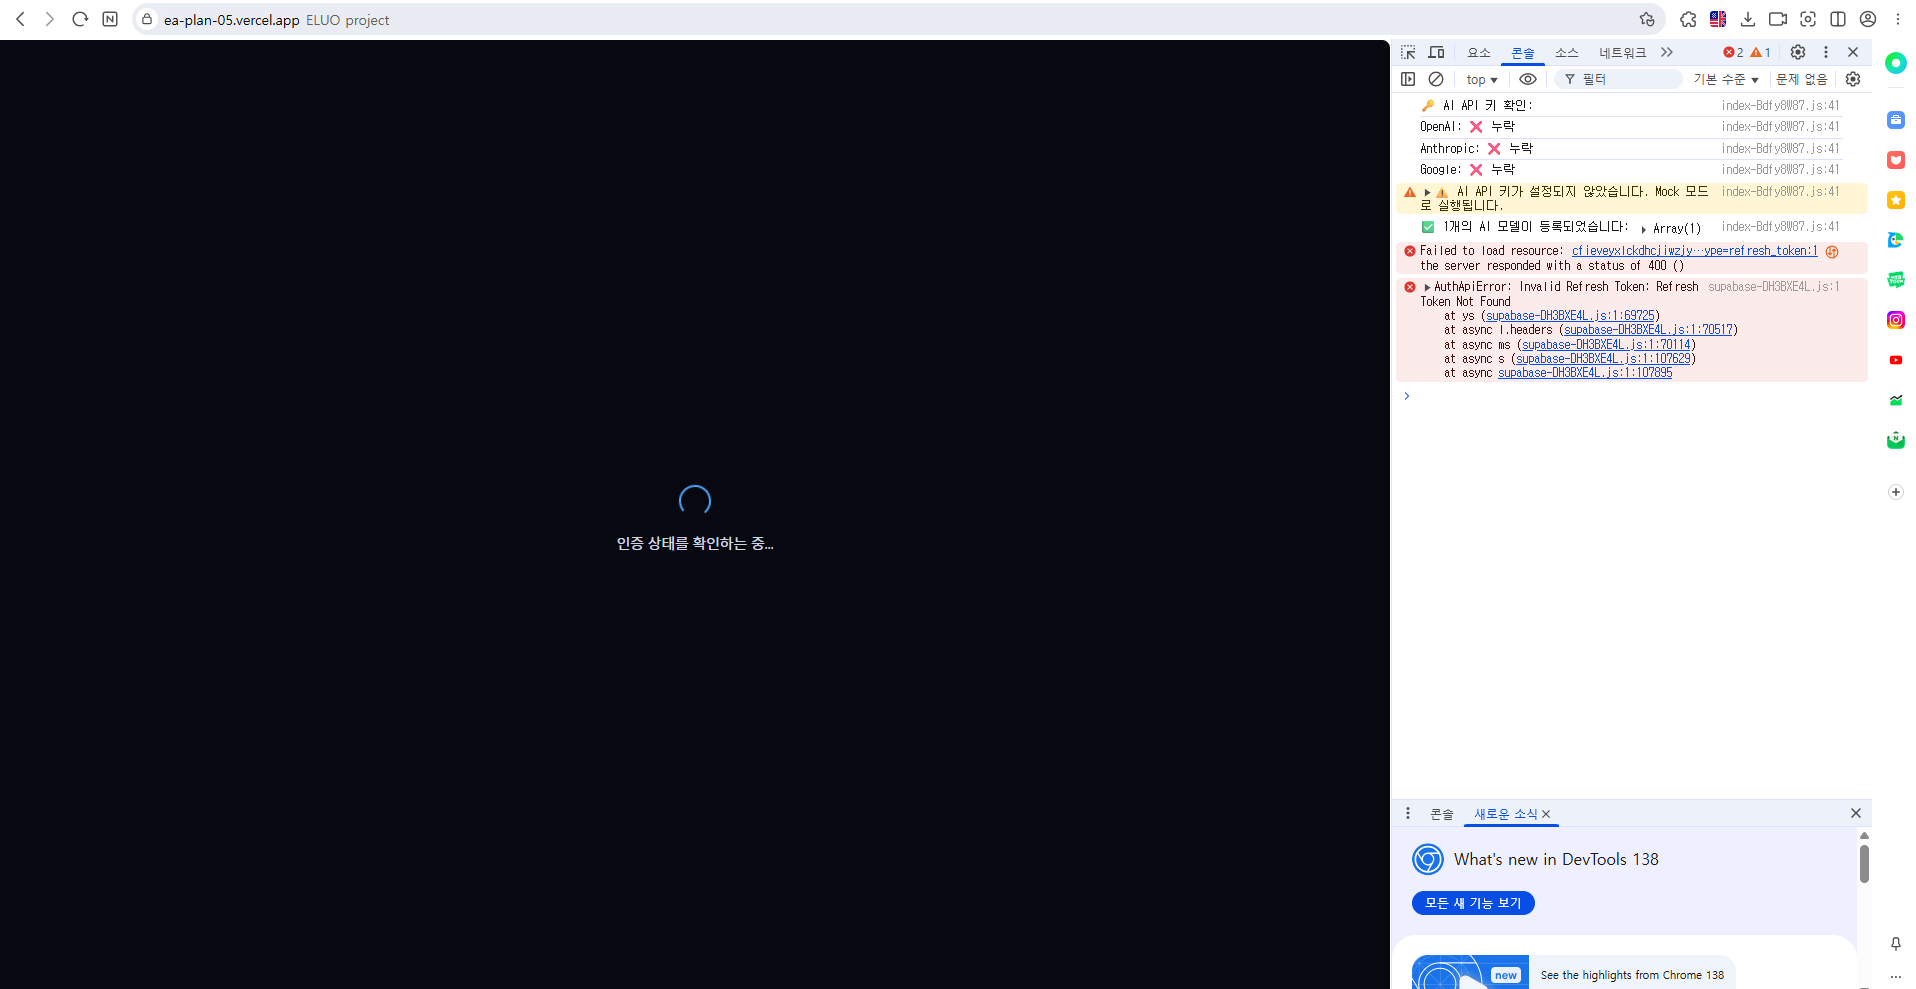
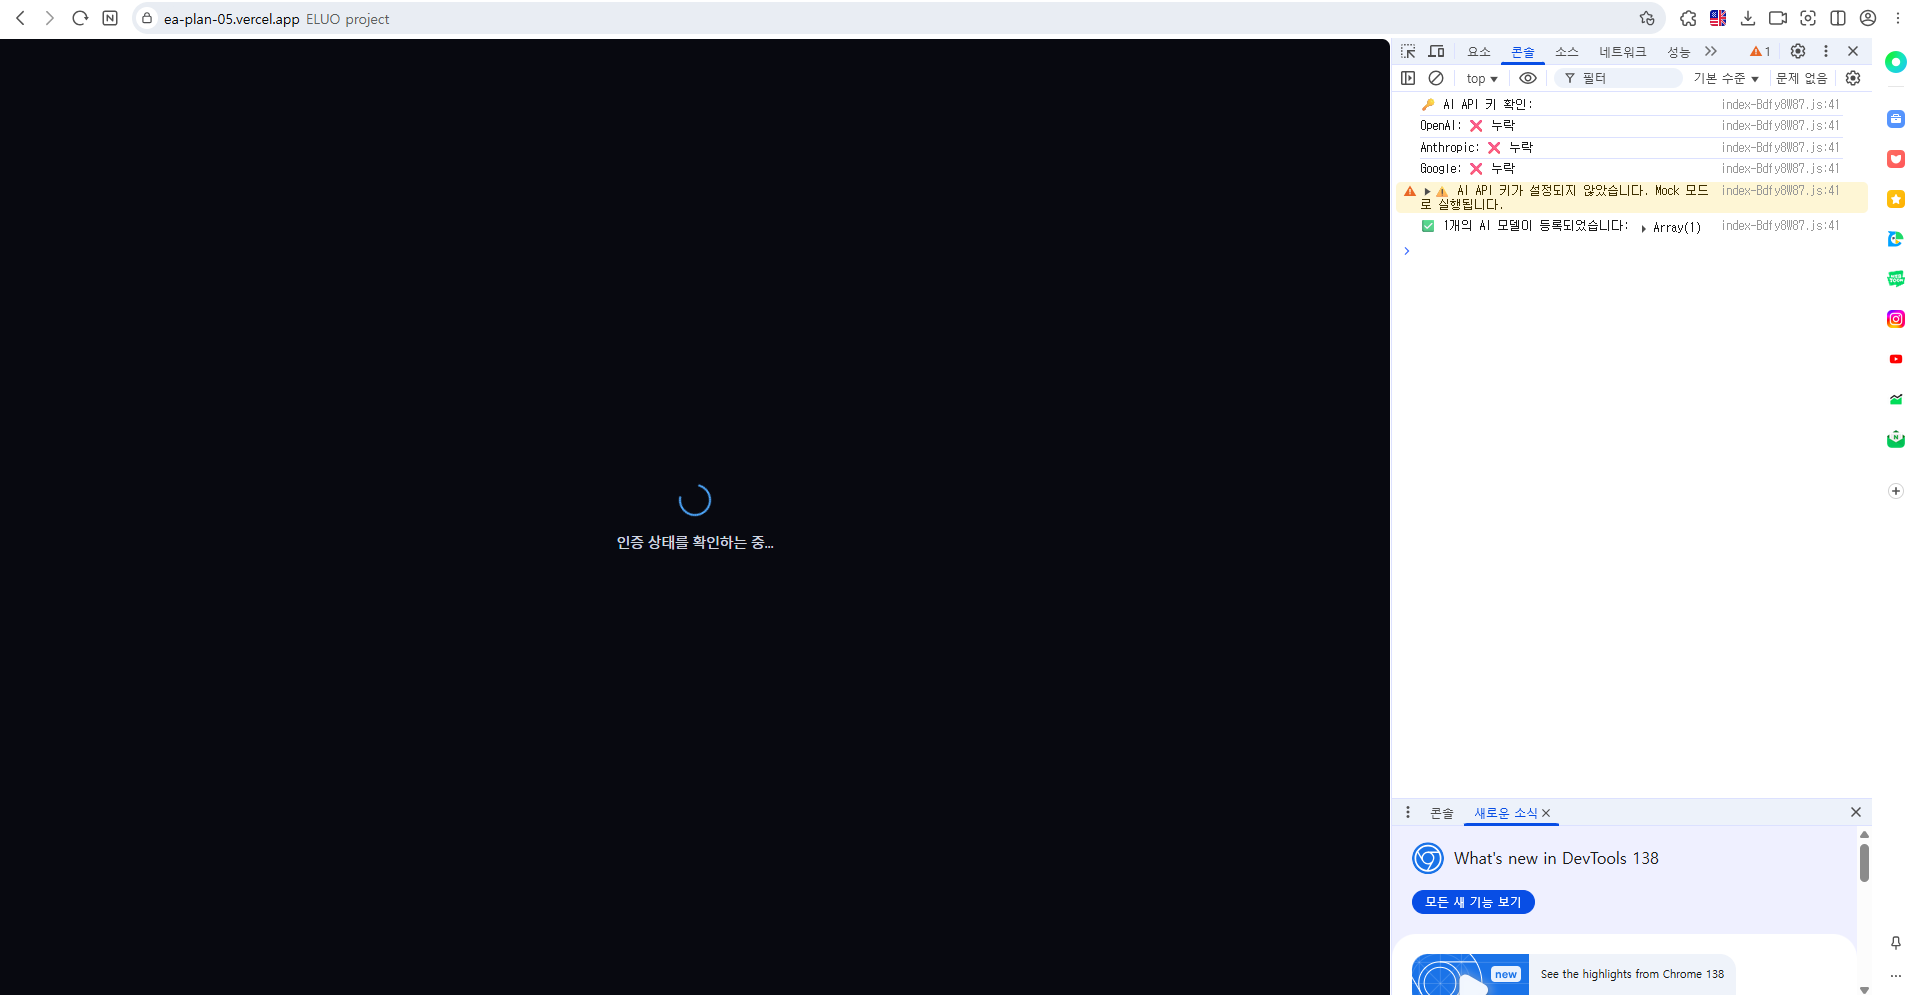
fix: 인증 시스템 무한 로딩 문제 완전 해결

diff --git a/src/components/layout/ProtectedRoute.tsx b/src/components/layout/ProtectedRoute.tsx
@@ -3,7 +3,18 @@ import { useAuth } from '@/contexts/AuthContext'
 import { useEffect } from 'react'
 
 export function ProtectedRoute() {
-  const { isAuthenticated, isLoading, isInitialized, session, refreshSession } = useAuth()
+  const { isAuthenticated, isLoading, isInitialized, session, refreshSession, error } = useAuth()
+
+  // 디버깅용 로그
+  useEffect(() => {
+    console.log('🔒 ProtectedRoute state:', {
+      isInitialized,
+      isLoading,
+      isAuthenticated,
+      hasSession: !!session,
+      hasError: !!error
+    })
+  }, [isInitialized, isLoading, isAuthenticated, session, error])
 
   // 세션 유효성 정기 검사
   useEffect(() => {
@@ -31,13 +42,23 @@ export function ProtectedRoute() {
     return () => clearInterval(interval)
   }, [isAuthenticated, session, refreshSession])
 
+  // 에러가 있고 초기화되지 않은 경우 로그인으로 리다이렉트
+  if (error && !isInitialized) {
+    console.error('🚨 Auth error, redirecting to login:', error)
+    return <Navigate to="/login" replace />
+  }
+
   // 아직 초기화되지 않았거나 로딩 중인 경우
   if (!isInitialized || isLoading) {
+    console.log('⏳ ProtectedRoute: Showing loading state')
     return (
       <div className="flex h-screen items-center justify-center bg-bg-primary">
         <div className="flex flex-col items-center space-y-4">
           <div className="animate-spin rounded-full h-8 w-8 border-2 border-primary-500 border-t-transparent"></div>
-          <p className="text-text-secondary text-regular">인증 상태를 확인하는 중...</p>
+          <p className="text-text-secondary text-regular">
+            인증 상태를 확인하는 중...
+            {error && <span className="block text-xs text-red-400 mt-2">오류: {error}</span>}
+          </p>
         </div>
       </div>
     )

diff --git a/src/contexts/AuthContext.tsx b/src/contexts/AuthContext.tsx
@@ -32,12 +32,32 @@ interface AuthProviderProps {
 export function AuthProvider({ children }: AuthProviderProps) {
   const authStore = useAuthStore()
 
+  // 디버깅용 상태 로그
   useEffect(() => {
-    // 앱 시작 시 인증 상태 초기화 (한 번만 실행)
-    if (!authStore.isInitialized) {
+    console.log('🏗 AuthProvider state update:', {
+      isInitialized: authStore.isInitialized,
+      isLoading: authStore.isLoading,
+      isAuthenticated: authStore.isAuthenticated,
+      hasUser: !!authStore.user,
+      hasSession: !!authStore.session,
+      hasError: !!authStore.error
+    })
+  }, [
+    authStore.isInitialized,
+    authStore.isLoading,
+    authStore.isAuthenticated,
+    authStore.user,
+    authStore.session,
+    authStore.error
+  ])
+
+  useEffect(() => {
+    // 인증 상태 초기화 - 초기화되지 않았고 로딩 중이 아닐 때만 실행
+    if (!authStore.isInitialized && !authStore.isLoading) {
+      console.log('🔄 AuthContext: Triggering auth initialization...')
       authStore.initialize()
     }
-  }, []) // 의존성 배열을 빈 배열로 변경하여 한 번만 실행
+  }, [authStore.isInitialized, authStore.isLoading]) // 초기화 상태와 로딩 상태를 모니터링
 
   // 세션 갱신 타이머 설정 (브라우저 창 이동 시 세션 유지)
   useEffect(() => {

diff --git a/src/stores/authStore.ts b/src/stores/authStore.ts
@@ -29,7 +29,7 @@ export const useAuthStore = create<AuthState>((set, get) => ({
   user: null,
   session: null,
   profile: null,
-  isLoading: true,
+  isLoading: false, // 초기 로딩 상태를 false로 변경
   isAuthenticated: false,
   isInitialized: false,
   error: null,
@@ -233,13 +233,15 @@ export const useAuthStore = create<AuthState>((set, get) => ({
   },
 
   initialize: async () => {
-    const { isInitialized, isLoading } = get()
+    const { isInitialized } = get()
 
-    // 이미 초기화되었거나 초기화 중인 경우 중복 실행 방지
-    if (isInitialized || isLoading) {
+    // 이미 초기화된 경우만 중복 실행 방지
+    if (isInitialized) {
+      console.log('🔄 Auth already initialized, skipping...')
       return
     }
 
+    console.log('🚀 Starting auth initialization...')
     set({ isLoading: true, error: null })
 
     try {
@@ -284,6 +286,13 @@ export const useAuthStore = create<AuthState>((set, get) => ({
         isAuthenticated: !!session,
         isLoading: false,
         isInitialized: true,
+      })
+
+      console.log('✅ Auth initialization completed successfully')
+      console.log('Auth state:', {
+        hasUser: !!session?.user,
+        hasSession: !!session,
+        isAuthenticated: !!session
       })
 
       // Auth 상태 변경 리스너
